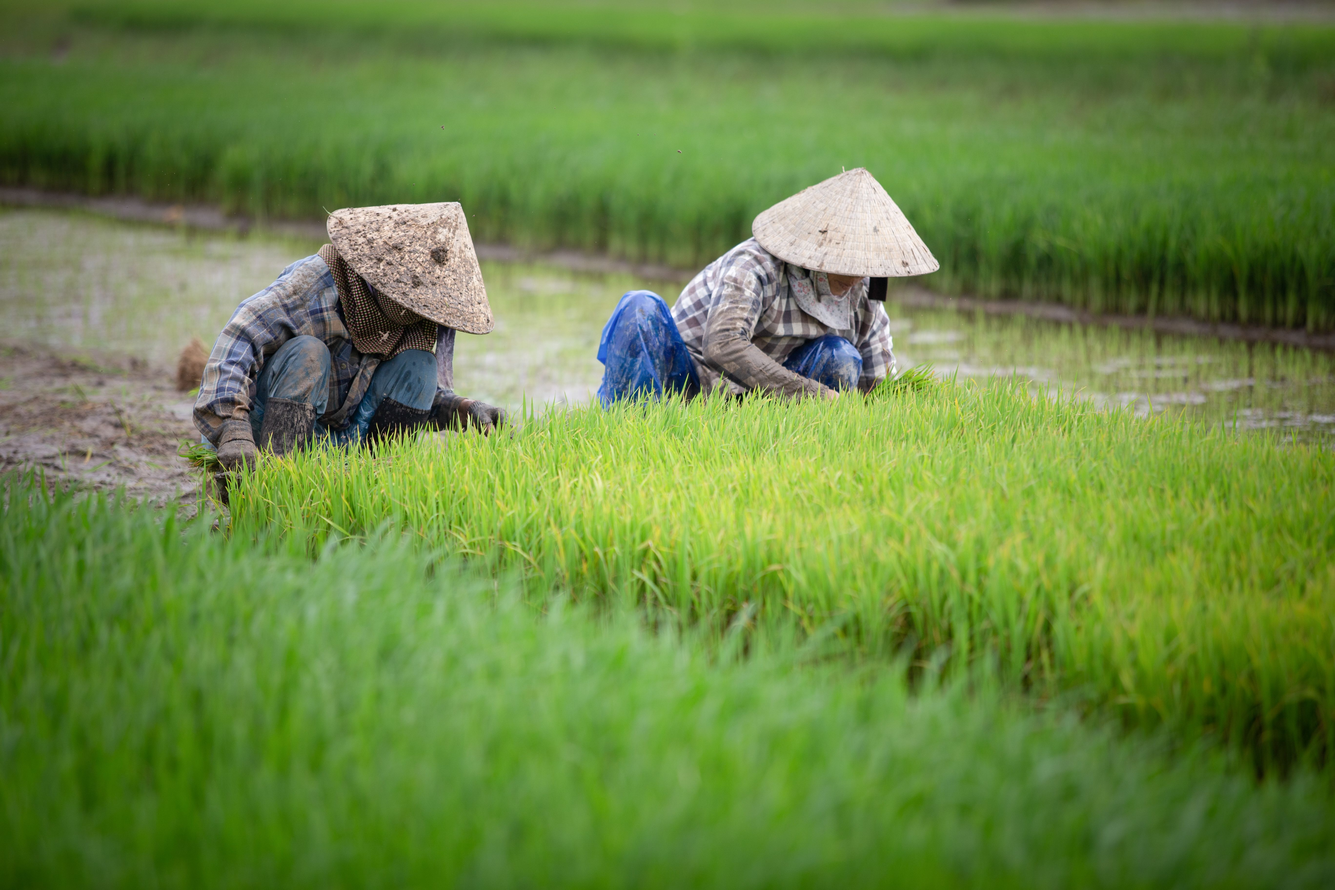
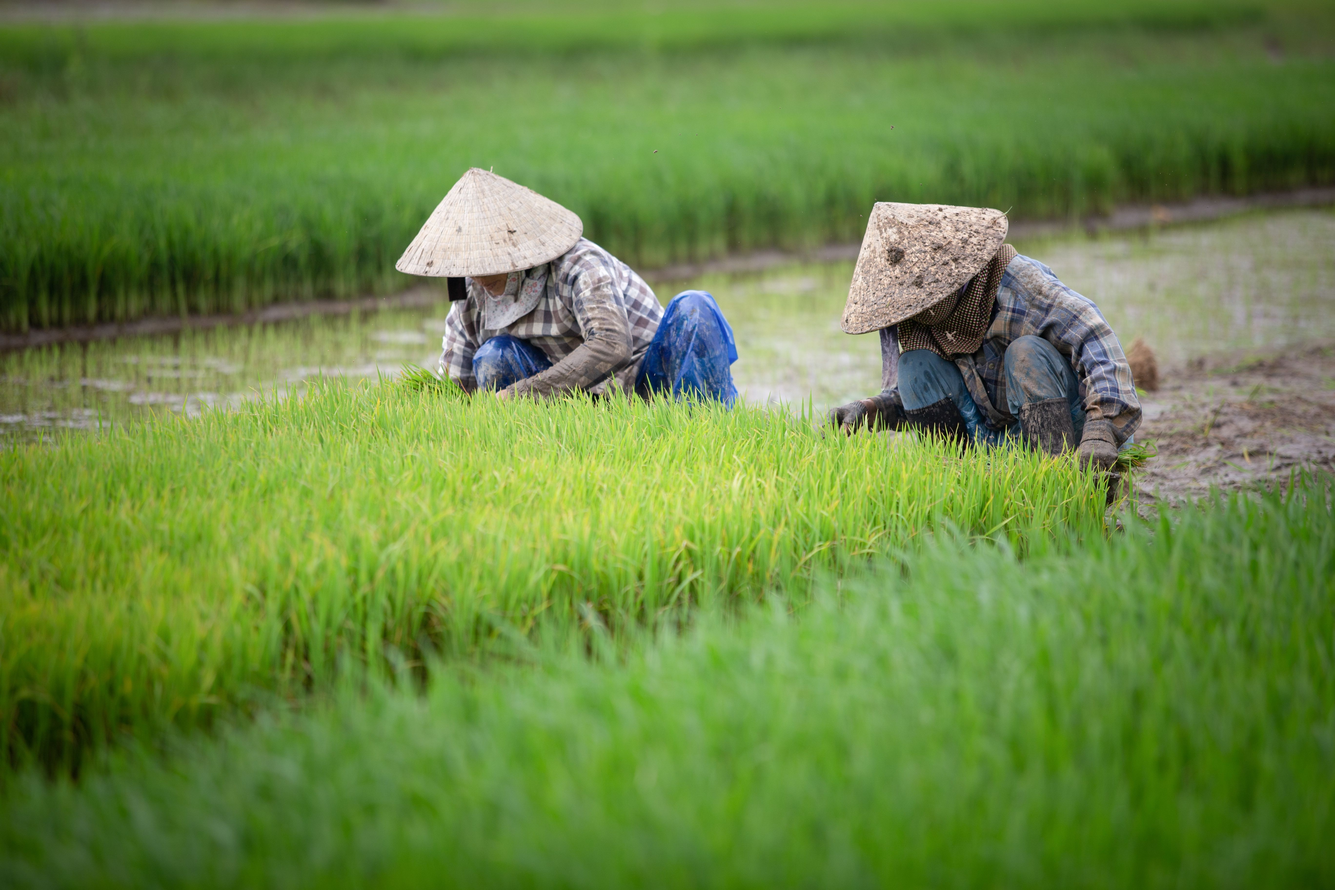
feat: implement ContactPage component and update routing; modify Navbar and Footer for new contact links; enhance App structure with BrowserRouter

diff --git a/src/frontend/components/Footer.jsx b/src/frontend/components/Footer.jsx
@@ -12,7 +12,7 @@ export default function Footer() {
                     <span className="footer__slogan-text">th.</span>
                 </p>
 
-                <Link to="/register" className="footer__cta-button">
+                <Link to="/contact" className="footer__cta-button">
                     <span className="footer__cta-text">Volunteer Now</span>
                     <ArrowCircleIcon className="footer__cta-icon" />
                 </Link>
@@ -29,8 +29,8 @@ export default function Footer() {
                 </div>
                 <div className="footer__column">
                     <h4 className="footer__column-title">CONNECT</h4>
-                    <Link to="/register" className="footer__link">Register</Link>
-                    <Link to="/register" className="footer__link">Email</Link>
+                    <Link to="/contact" className="footer__link">Register</Link>
+                    <Link to="/contact" className="footer__link">Email</Link>
                 </div>
             </div>
 

diff --git a/src/frontend/app.jsx b/src/frontend/app.jsx
@@ -1,25 +1,25 @@
-import { BrowserRouter as Router, Routes, Route } from 'react-router-dom';
-import './css/style.css';
+import { Routes, Route } from 'react-router-dom';
 
 import Navbar from './components/Navbar';
 import Footer from './components/Footer';
-import LandingPage from './pages/LandingPage'; 
-import RegisterPage from './pages/RegisterPage';
+import LandingPage from './pages/LandingPage';
+import ContactPage from './pages/ContactPage';
 
 function App() {
     return (
-        <Router>
+        <div className="app-container">
             <Navbar />
-            
+
             <main className="main-content">
                 <Routes>
                     <Route path="/" element={<LandingPage />} />
-                    <Route path="/register" element={<RegisterPage />} />
+                    <Route path="/contact" element={<ContactPage />} />
                 </Routes>
             </main>
 
             <Footer />
-        </Router>
+        </div>
     );
 }
+
 export default App;

diff --git a/src/frontend/pages/LandingPage.jsx b/src/frontend/pages/LandingPage.jsx
@@ -1,4 +1,4 @@
-import React from 'react';
+import { Link } from "react-router-dom";
 import Section from "../components/Section";
 import homeBg from "../images/home-bg.jpg";
 import ArrowCircleIcon from "../svg/ArrowCircleIcon";
@@ -23,10 +23,10 @@ function LandingPage() {
                         Immerse yourself in the daily realities of Philippine agriculture to understand, appreciate, and actively sustain the future of food production.
                     </p>
 
-                    <a className="cta-btn" href="#Register">
+                    <Link className="cta-btn" to="/contact">
                         <span className="cta-btn__text">Get Involved</span>
                         <ArrowCircleIcon className="cta-btn__icon" />
-                    </a>
+                    </Link>
                 </div>
 
                 <div className="home-image">

diff --git a/src/frontend/pages/ContactPage.jsx b/src/frontend/pages/ContactPage.jsx
@@ -86,7 +86,7 @@ function Field({ id, label, error, hint, children }) {
     );
 }
 
-export default function RegisterPage() {
+export default function ContactPage() {
     const [mode, setMode] = useState("register"); // "register" | "feedback" | "inquiry"
     const [step, setStep] = useState(0);
     const [form, setForm] = useState(EMPTY_FORM);
@@ -513,7 +513,7 @@ export default function RegisterPage() {
 
     /* ---------- page ---------- */
     return (
-        <Section id="Register" tone="light">
+        <Section id="Contact" tone="light">
             <div className="reg">
                 <header className="reg-header">
                     <p className="reg-eyebrow">{current.eyebrow}</p>

diff --git a/src/frontend/main.jsx b/src/frontend/main.jsx
@@ -1,10 +1,13 @@
-import React from 'react'
-import ReactDOM from 'react-dom/client'
-import App from './app.jsx'
-import './css/style.css'
+import React from "react";
+import ReactDOM from "react-dom/client";
+import { BrowserRouter } from "react-router-dom";
+import App from "./app";
+import "./css/style.css";
 
-ReactDOM.createRoot(document.getElementById('root')).render(
+ReactDOM.createRoot(document.getElementById("root")).render(
     <React.StrictMode>
-        <App />
+        <BrowserRouter>
+            <App />
+        </BrowserRouter>
     </React.StrictMode>
-)
+);

diff --git a/src/frontend/components/Navbar.jsx b/src/frontend/components/Navbar.jsx
@@ -21,7 +21,7 @@ export default function NavBar() {
                     <a href="/#Questions" className={active === "Questions" ? "is-active" : ""}>Questions</a>
                     <a href="/#Discover" className={active === "Discover" ? "is-active" : ""}>Discover</a>
                     
-                    <Link to="/register" className="contact-link">
+                    <Link to="/contact" className="contact-link">
                         <div className="special-bg" />
                         <span>Contact</span>
                     </Link>

diff --git a/src/frontend/css/navbar.css b/src/frontend/css/navbar.css
@@ -116,7 +116,9 @@
 }
 
 .account-btn .action-bg {
-    background: var(--glow-ai-mid);
+    background: var(--glass-green);
+    -webkit-backdrop-filter: blur(5px);
+    backdrop-filter: blur(5px);
     border: 1px solid var(--color-light);
     border-radius: 40px;
     box-shadow: 0px 4px 8px var(--shadow);
@@ -127,7 +129,7 @@
 }
 
 .account-btn:hover .action-bg {
-    background: var(--color-minor);
+    background: var(--glass-green-hover);
     box-shadow: 0px 0px 8px var(--shadow);
     transform: translateY(2px);
 }

diff --git a/src/frontend/css/root.css b/src/frontend/css/root.css
@@ -30,6 +30,10 @@
     --glow-ai-core: #A0C8A066;          /* radial glow behind the AI text */
     --glow-ai-mid: #50975B26;
 
+    /*  ---------- GLASS ----------  */
+    --glass-green: #124C1199;          /* dark green at 60% */
+    --glass-green-hover: #124C11CC;    /* dark green at 80% */
+
     /*  ---------- WATERMARK WORDS ----------  */
     --watermark-on-dark: #FFFFFF0F;
     --watermark-on-light: #124C1114;

diff --git a/src/frontend/css/landing.css b/src/frontend/css/landing.css
@@ -125,7 +125,7 @@
 
 .hero__content {
     width: 100%;
-    padding-left: clamp(0px, 9vw, 180px);   /* pushes the text block in from the left edge */
+    padding-left: clamp(0px, 9vw, 180px);
     padding-top: 8vh;
     box-sizing: border-box;
 }

diff --git a/src/frontend/css/base.css b/src/frontend/css/base.css
@@ -18,6 +18,7 @@ main {
     padding: 0;
     color: var(--color-light);
 }
+
 .app-container {
     display: flex;
     flex-direction: column;

diff --git a/src/frontend/css/style.css b/src/frontend/css/style.css
@@ -10,4 +10,4 @@
 
 /*  ---------- PAGE STYLING ----------  */
 @import "./landing.css";
-@import "./register.css";
+@import "./contact.css";
